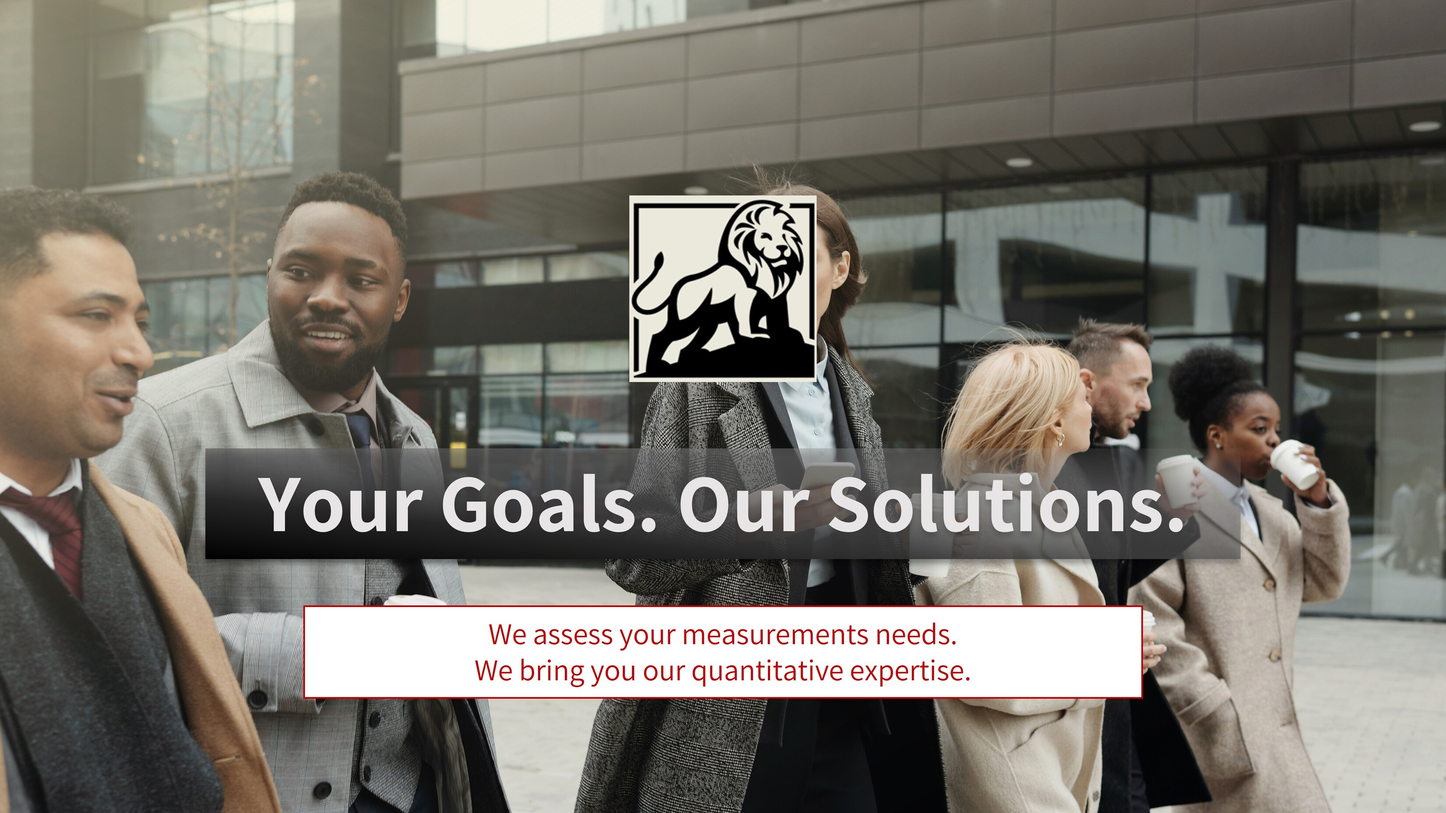
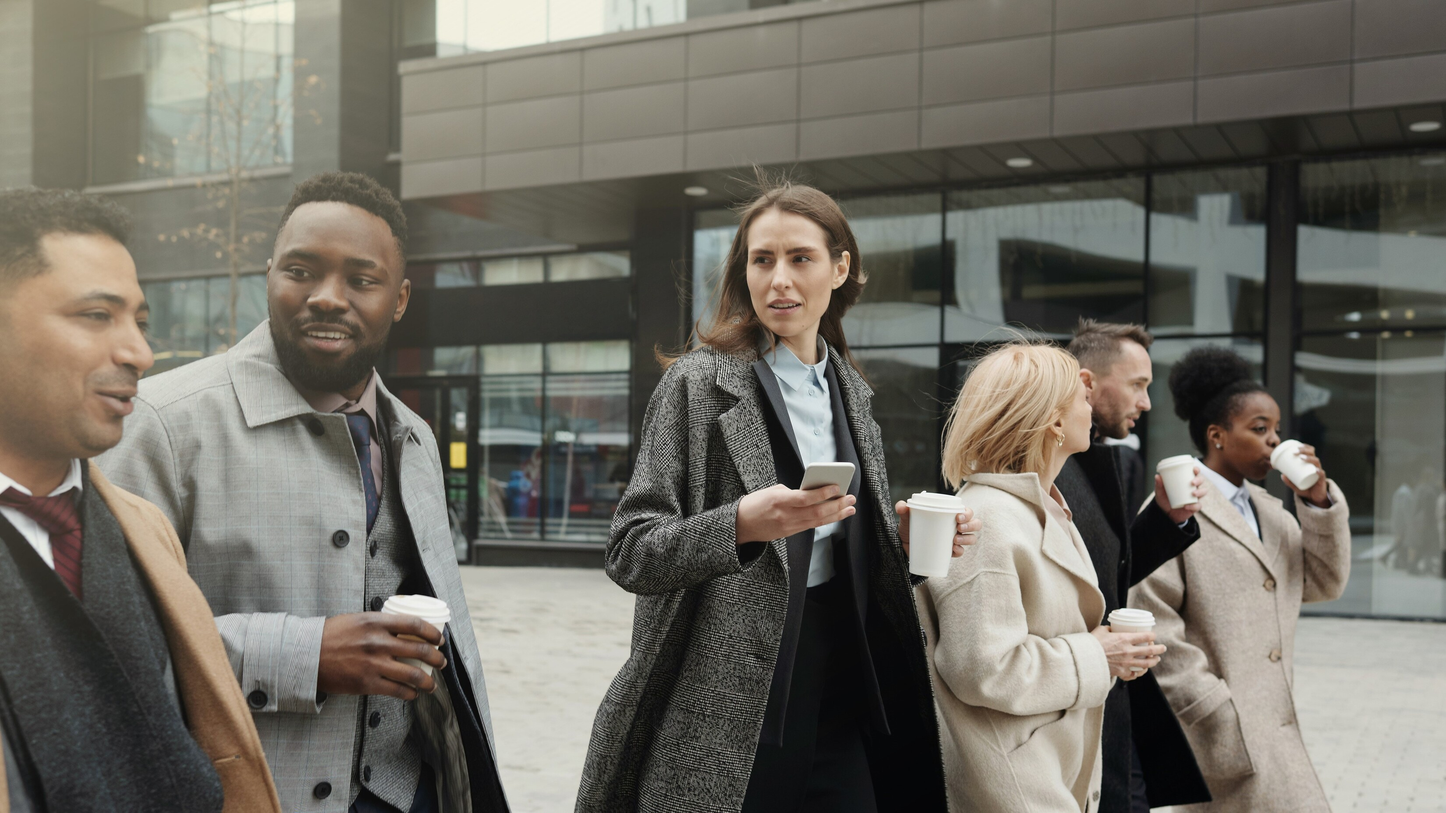
Add files via upload

Changed region(s): [[0.1248, 0.5312, 0.8739, 0.875], [0.437, 0.2188, 0.5618, 0.4688]]

diff --git a/css/cxtcapital/ccastyles.min.css b/css/cxtcapital/ccastyles.min.css
@@ -105,10 +105,94 @@ a:hover, a:focus {
 }
 
 .img-carousel-screen_X {
-  height: 100vh;
-} 
+  margin-top: 10vh !important;
+  height: 90vh;
+}
 
-@media screen and (max-width: 600px) {   
+.carousel-item section div{
+  display: inline-block;
+  margin-top: 10vh;
+}
+
+.container-logo {
+  display: grid;
+  grid-template-columns: 14% 14.3% 14.3% 14.8% 14.3% 14.3% 14%;
+  justify-content: space-evenly;
+  align-items: center;
+}
+
+.section_title_div {
+  display: grid;
+  margin-top: -10vh;
+}
+
+.container-title {
+  display: grid;
+  grid-template-columns: 20% 60% 20%;
+  justify-content: space-evenly;
+  align-items: center;
+}
+
+.container-title h1{
+  display: table;
+  text-align: center !important;
+  box-shadow: 1px 1px #3B3B3B;
+  color: white;
+  background: rgb(0,0,4);
+  background: linear-gradient(27deg, rgba(0,0,4,1) 0%, rgba(39,39,39,0.9594537644159227) 29%, rgba(64,64,65,0.9174369576932335) 44%, rgba(96,96,96,0.8334033442478554) 65%, rgba(151,151,151,0.8109943806624212) 83%, rgba(182,182,183,0.6821428400461746) 91%, rgba(207,207,207,0.5728991425671831) 95%, rgba(251,251,251,0.27598037506018036) 99%);
+}
+
+.container-title .cxt-title-size {
+  margin: 0px auto 0px auto;
+  padding-left: 3px;
+  padding-right: 3px;
+  font-size: 12vh;
+}
+
+.section_text_div {
+  display: grid;
+  margin-top: -35vh;
+}
+
+.container-text {
+  display: grid;
+  grid-template-columns: 10% 10% 60% 10% 10%;
+  justify-content: space-evenly;
+  align-items: center;  
+}
+
+.container-text p{
+  display: table;
+  text-align: center !important;
+  background-color: #FDF9F6;
+  border: solid 1px;
+  border-radius:  3px;
+  box-shadow: 1px 1px #3B3B3B;
+}
+
+.container-text .cxt-text-size {
+  margin: 0px auto 0px auto;
+  padding-left: 5vw;
+  padding-right: 5vw;
+  font-size: 4vh;
+}
+
+.container-text .cxt-color-blue {
+  color: #002060;
+  border-color: #4472C4;
+}
+
+.container-text .cxt-color-red {
+ color: #C00000;
+ border-color: #C00000;
+}
+
+.container-text .cxt-color-green {
+  color: #003300;
+  border-color: #00B050;
+}
+
+@media screen and (max-width: 600px) {  
   .bg-img-1{
     background-image: url(./../../imgs/carousel/bg-img-1/cxt_main_x01-screen_5.jpg); 
   } 
@@ -118,8 +202,27 @@ a:hover, a:focus {
   .bg-img-3{
     background-image: url(./../../imgs/carousel/bg-img-3/cxt_main_x03-screen_5.jpg); 
   } 
+  .content-logo {
+    width: 20vw;
+  } 
+  .container-title .cxt-title-size {
+    margin: 0px auto 0px auto;
+    padding-left: 3px;
+    padding-right: 3px;
+    font-size: 6vh;
+  }
+  .section_text_div {
+    display: grid;
+    margin-top: -33vh;
+  }
+  .container-text .cxt-text-size {
+    margin: 0px auto 0px auto;
+    padding-left: 5vw;
+    padding-right: 5vw;
+    font-size: 3vh;
+  }
 }
-@media screen and (min-width: 601px) {      
+@media screen and (min-width: 601px) {   
   .bg-img-1{      
     background-image: url(./../../imgs/carousel/bg-img-1/cxt_main_x01-screen_4.jpg);
   } 
@@ -129,6 +232,25 @@ a:hover, a:focus {
   .bg-img-3{
     background-image: url(./../../imgs/carousel/bg-img-3/cxt_main_x03-screen_4.jpg); 
   } 
+  .content-logo {
+    width: 17vw;
+  }    
+  .container-title .cxt-title-size {
+    margin: 0px auto 0px auto;
+    padding-left: 3px;
+    padding-right: 3px;
+    font-size: 7.5vh;
+  }
+  .section_text_div {
+    display: grid;
+    margin-top: -31vh;
+  }
+  .container-text .cxt-text-size {
+    margin: 0px auto 0px auto;
+    padding-left: 5vw;
+    padding-right: 5vw;
+    font-size: 3.5vh;
+  }
 } 
 @media (min-width: 680px) {      
   .bg-img-1{        
@@ -140,6 +262,21 @@ a:hover, a:focus {
   .bg-img-3{
     background-image: url(./../../imgs/carousel/bg-img-3/cxt_main_x03-screen_3.jpg); 
   } 
+  .content-logo {
+    width: 15vw;
+  }    
+  .container-title .cxt-title-size {
+    margin: 0px auto 0px auto;
+    padding-left: 3px;
+    padding-right: 3px;
+    font-size: 10vh;
+  }
+  .container-text .cxt-text-size {
+    margin: 0px auto 0px auto;
+    padding-left: 5vw;
+    padding-right: 5vw;
+    font-size: 3.75vh;
+  }
 }
 @media (min-width: 835px) {      
   .bg-img-1{        
@@ -151,17 +288,48 @@ a:hover, a:focus {
   .bg-img-3{
     background-image: url(./../../imgs/carousel/bg-img-3/cxt_main_x03-screen_2.jpg); 
   } 
+  .content-logo {
+    width: 13vw;
+  }  
+  .container-title .cxt-title-size {
+    margin: 0px auto 0px auto;
+    padding-left: 3px;
+    padding-right: 3px;
+    font-size: 11vh;
+  }
+  .container-text .cxt-text-size {
+    margin: 0px auto 0px auto;
+    padding-left: 5vw;
+    padding-right: 5vw;
+    font-size: 4vh;
+  }
 }
-@media (min-width: 1200px) {    
-  .bg-img-1{         
+@media (min-width: 1200px) { 
+  .bg-img-1{      
        background-image: url(./../../imgs/carousel/bg-img-1/cxt_main_x01-screen_1.jpg);
   } 
   .bg-img-2{
+
     background-image: url(./../../imgs/carousel/bg-img-2/cxt_main_x02-screen_1.jpg); 
   } 
   .bg-img-3{
     background-image: url(./../../imgs/carousel/bg-img-3/cxt_main_x03-screen_1.jpg); 
   } 
+  .content-logo {
+    width: 12vw;
+  } 
+  .container-title .cxt-title-size {
+    margin: 0px auto 0px auto;
+    padding-left: 3px;
+    padding-right: 3px;
+    font-size: 12vh;
+  }
+  .container-text .cxt-text-size {
+    margin: 0px auto 0px auto;
+    padding-left: 5vw;
+    padding-right: 5vw;
+    font-size: 4vh;
+  }
 }
 
 @media (min-width: 1300px) {    
@@ -173,5 +341,20 @@ a:hover, a:focus {
   } 
   .bg-img-3{
     background-image: url(./../../imgs/carousel/bg-img-3/cxt_main_x03-screen_0.jpg); 
+  } 
+  .content-logo {
+    width: 10vw;
+  }  
+  .container-title .cxt-title-size {
+    margin: 0px auto 0px auto;
+    padding-left: 3px;
+    padding-right: 3px;
+    font-size: 12vh;
+  }
+  .container-text .cxt-text-size {
+    margin: 0px auto 0px auto;
+    padding-left: 5vw;
+    padding-right: 5vw;
+    font-size: 4vh;
   } 
 }

diff --git a/index.html b/index.html
@@ -54,12 +54,107 @@
           <div class="carousel-inner">
             <div class="carousel-item img-carousel-screen_X bg-img-1 active">
             <!-- <div id="img-cxt_main_x02-screen_X" /> -->
+              <section class="container-logo">
+                <div class="container-logo"></div>
+                <div class="container-logo"></div>
+                <div class="container-logo"></div>
+                <div class="container-logo">
+                    <img class="content-logo" src="imgs/logo/cxt-logo-light-brown.png" alt="cxt-logo">
+                </div>
+                <div class="container-logo"></div>
+                <div class="container-logo"></div>
+                <div class="container-logo"></div>
+              </section>
+
+              <section class="section_title_div">
+                <div class="container-title"></div>
+                <div class="container-title">
+                  <h1 class="cxt-title-size">Your Goals. Our Solutions.</h1>
+                </div>
+                <div class="container-title"></div>
+              </section>
+
+              <section class="section_text_div">
+                <div class="container-text"></div>
+                <div class="container-text"></div>
+                <div class="container-text">
+                  <p class="cxt-text-size cxt-color-blue">We understand your business goals. <br/>
+                       We bring you our strategic capabilities.
+                  </p>
+                </div>
+                <div class="container-text"></div>
+                <div class="container-text"></div>
+              </section>
+
             </div>
             <div class="carousel-item img-carousel-screen_X bg-img-2" >
-            <!-- <div id="img-cxt_main_x02-screen_X" />  -->
+              <section class="container-logo">
+                <div class="container-logo"></div>
+                <div class="container-logo"></div>
+                <div class="container-logo"></div>
+                <div class="container-logo">
+                    <img class="content-logo" src="imgs/logo/cxt-logo-light-brown.png" alt="cxt-logo">
+                </div>
+                <div class="container-logo"></div>
+                <div class="container-logo"></div>
+                <div class="container-logo"></div>
+              </section>
+
+              <section class="section_title_div">
+                <div class="container-title"></div>
+                <div class="container-title">
+                  <h1 class="cxt-title-size">Your Goals. Our Solutions.</h1>
+                </div>
+                <div class="container-title"></div>
+              </section>
+
+              <section class="section_text_div">
+                <div class="container-text"></div>
+                <div class="container-text"></div>
+                <div class="container-text">
+                  <p class="cxt-text-size cxt-color-red">We assess your measurements needs.<br/>
+                      We bring you our quantitative expertise.
+                  </p>
+                </div>
+                <div class="container-text"></div>
+                <div class="container-text"></div>
+              </section>
+
             </div>
             <div class="carousel-item img-carousel-screen_X bg-img-3">
             <!-- <div id="img-cxt_main_x02-screen_X" /> -->
+              <section class="container-logo">
+                <div class="container-logo"></div>
+                <div class="container-logo"></div>
+                <div class="container-logo"></div>
+                <div class="container-logo">
+                    <img class="content-logo" src="imgs/logo/cxt-logo-light-brown.png" alt="cxt-logo">
+                </div>
+                <div class="container-logo"></div>
+                <div class="container-logo"></div>
+                <div class="container-logo"></div>
+              </section>
+
+              <section class="section_title_div">
+                <div class="container-title"></div>
+                <div class="container-title">
+                  <h1 class="cxt-title-size">Your Goals. Our Solutions.</h1>
+                </div>
+                <div class="container-title"></div>
+              </section>
+
+              <section class="section_text_div">
+                <div class="container-text"></div>
+                <div class="container-text"></div>
+                <div class="container-text">
+                  <p class="cxt-text-size cxt-color-green">We comprehend your disruptive barriers.<br/>
+                      We bring you our technological solutions.
+                  </p>
+                </div>
+                <div class="container-text"></div>
+                <div class="container-text"></div>
+              </section>
+
             </div>
           </div>
           <!-- Left and right controls/icons -->

diff --git a/imgs/carousel/README.md b/imgs/carousel/README.md
@@ -1,5 +1,6 @@
 screen_0: 3300 x 1856
 screen_1: 2550 x 1435
-scrren_3: 2046 x 1232
-screen_4: 
-screen_5:
+scrren_2: 2046 x 1362
+screen_3: 1629 x 1202
+screen_4: 970  x 848
+screen_5: 
